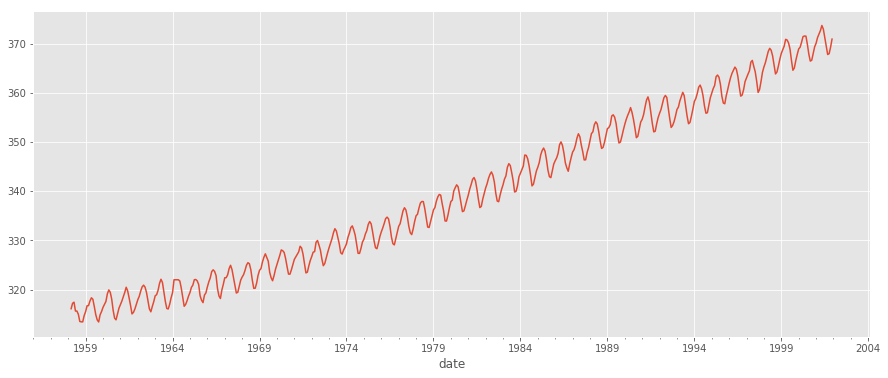
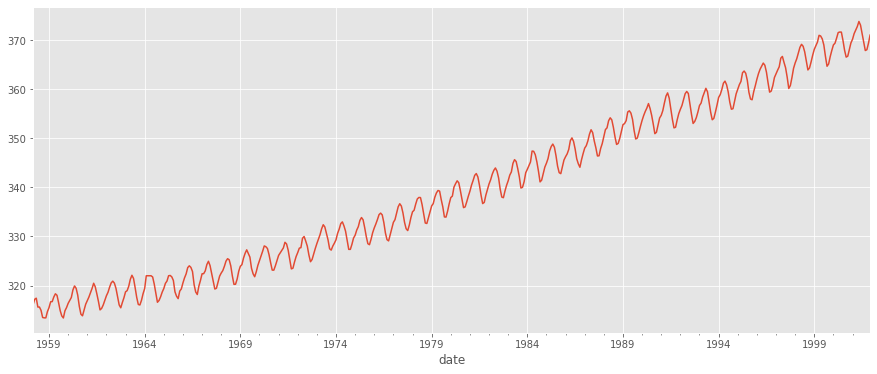
Fix errors in solution

diff --git a/README.md b/README.md
@@ -86,7 +86,6 @@ plt.style.use('ggplot')
 # Import necessary libraries
 import warnings
 warnings.filterwarnings('ignore')
-warnings.
 import itertools
 import pandas as pd
 import numpy as np
@@ -101,7 +100,7 @@ plt.style.use('ggplot')
 # __SOLUTION__ 
 dataset = sm.datasets.co2.load().data
 df = pd.DataFrame(dataset)
-df['date'] = pd.to_datetime(df.date.str.decode("utf-8"))
+df['date'] = pd.to_datetime(df['index'])
 df.set_index(df['date'], inplace=True)
 df.drop(['date'], axis=1, inplace=True)
 df = df.asfreq('W-SAT')
